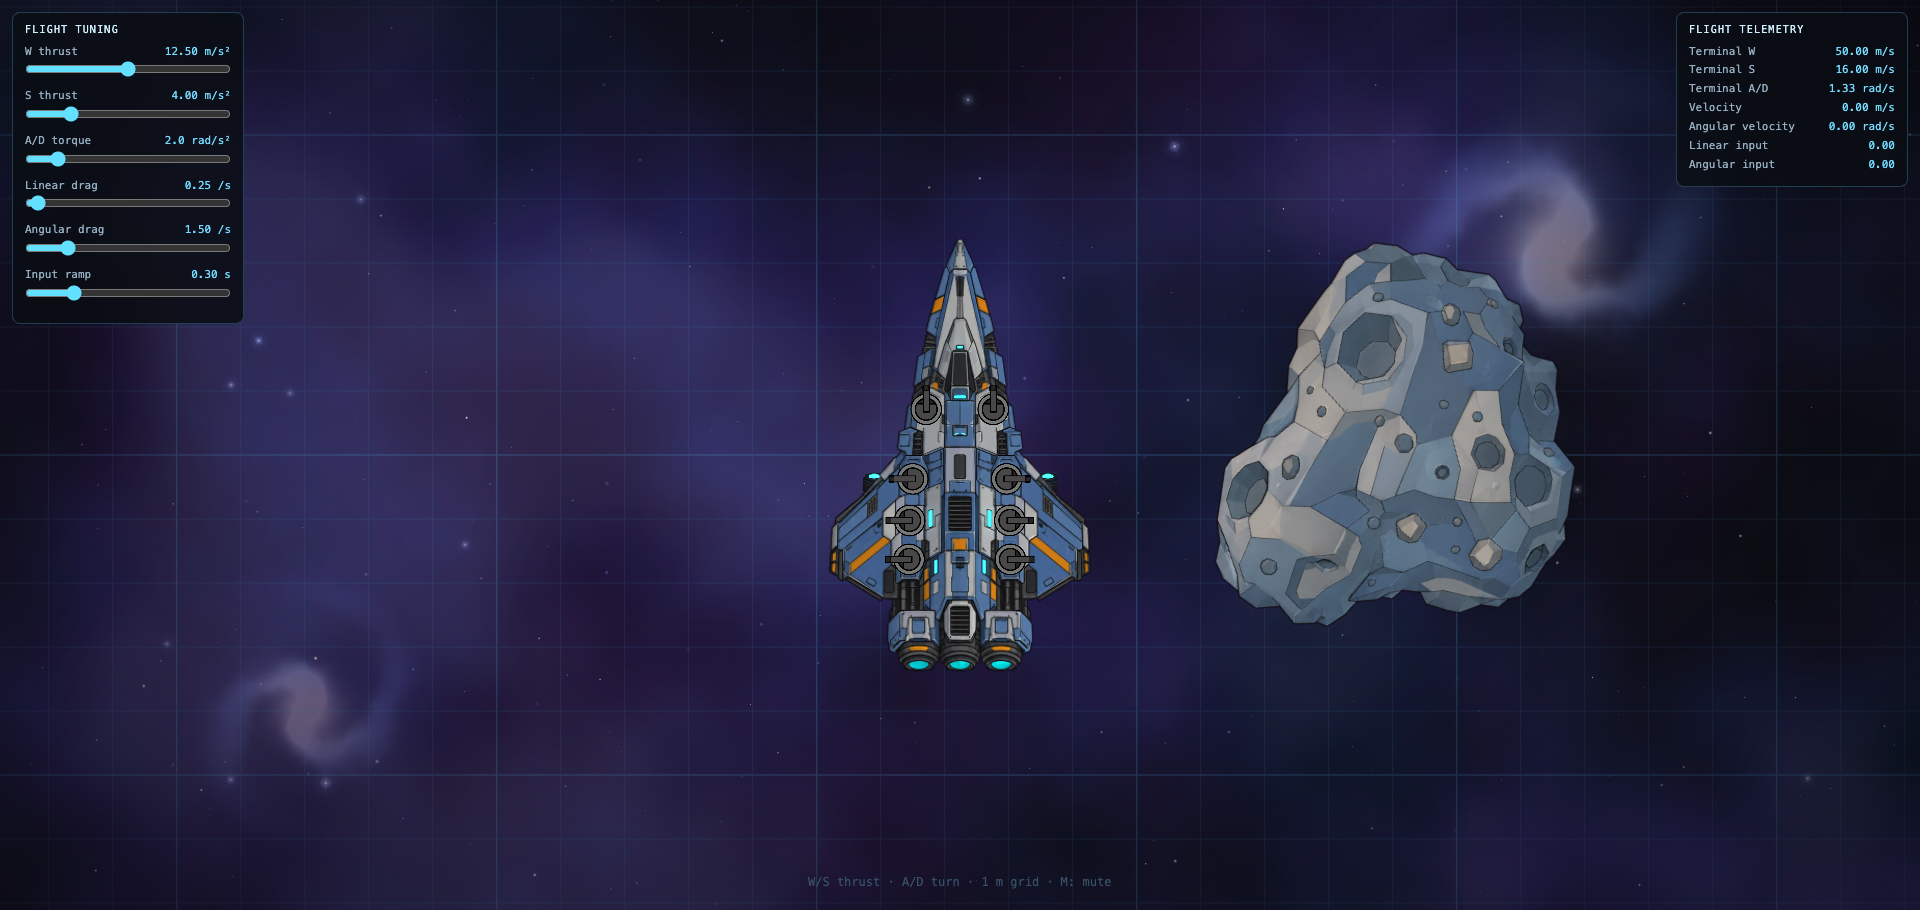
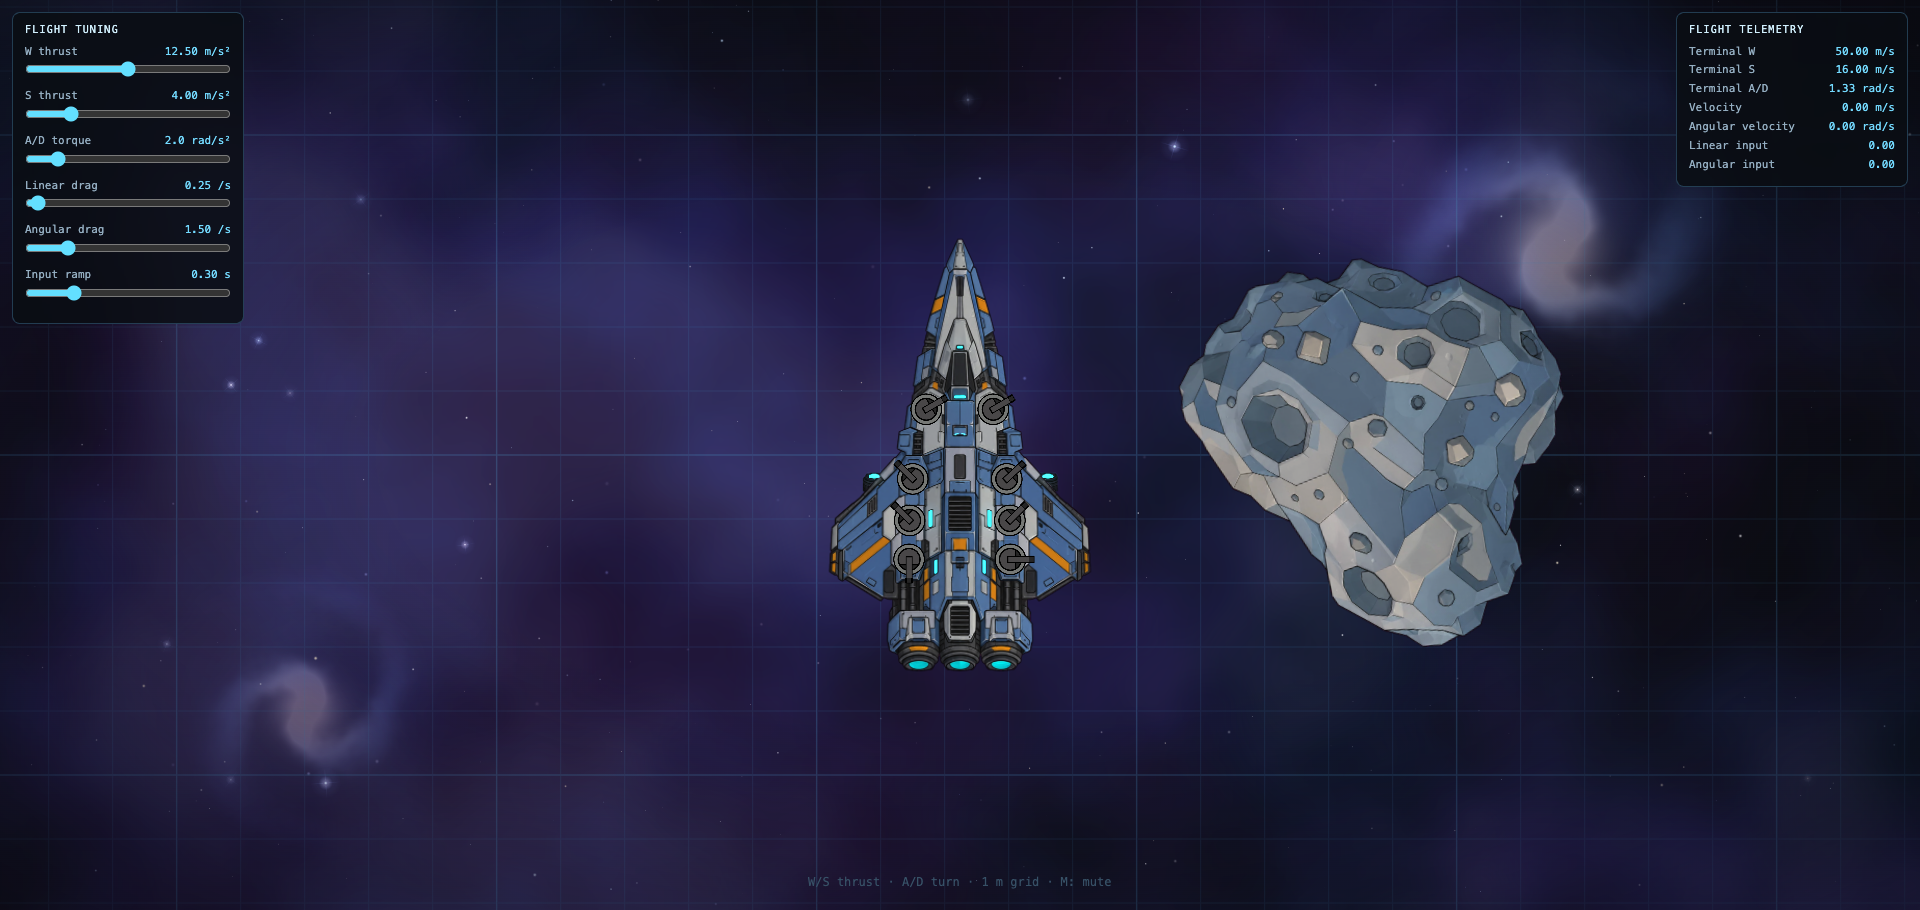
feat: add per-turret aiming cones

Changed region(s): [[0.5938, 0.2462, 0.8438, 0.7077], [0.4688, 0.4308, 0.5312, 0.4615]]

diff --git a/src/app/turrets.ts b/src/app/turrets.ts
@@ -1,5 +1,5 @@
 import { Container, Sprite, Texture } from 'pixi.js';
-import { stepTurretAim, wrapAngle } from './turret-aim';
+import { clampAngleToArc, stepTurretAim, wrapAngle } from './turret-aim';
 import type { TurretAimState } from './turret-aim';
 
 const NATIVE_WIDTH = 41;
@@ -15,6 +15,10 @@ export interface TurretMountConfig {
   scale: number;
   /** Rest angle in radians; 0 points up, ±π/2 point sideways. */
   restAngle: number;
+  /** Centre of the allowed aiming arc. 0 = forward, ±π = rearward. */
+  aimCenter: number;
+  /** Half-width of the allowed aiming arc. */
+  aimHalfAngle: number;
 }
 
 export const TURRET_MOUNT_LABELS = [
@@ -28,15 +32,79 @@ export const TURRET_MOUNT_LABELS = [
   'Rear R3',
 ] as const;
 
+const FRONT_CONE = Math.PI / 3; // ±60° around forward
+const MID_CENTER = Math.PI / 2; // exactly sideways
+const MID_CONE = Math.PI / 4; // covers ±45° around sideways
+const REAR_CENTER = (3 * Math.PI) / 4; // between side and rear
+const REAR_CONE = Math.PI / 4; // covers 90°..180° on each side
+
 export const DEFAULT_TURRET_LAYOUT: readonly TurretMountConfig[] = [
-  { x: -65, y: -88, scale: 1.5, restAngle: 0 }, // front left, up
-  { x: 64, y: -88, scale: 1.5, restAngle: 0 }, // front right, up
-  { x: -91, y: 46, scale: 1.5, restAngle: -Math.PI / 2 }, // rear left 1, side
-  { x: 90, y: 46, scale: 1.5, restAngle: Math.PI / 2 }, // rear right 1, side
-  { x: -97, y: 126, scale: 1.5, restAngle: -Math.PI / 2 }, // rear left 2
-  { x: 96, y: 126, scale: 1.5, restAngle: Math.PI / 2 }, // rear right 2
-  { x: -98, y: 201, scale: 1.5, restAngle: -Math.PI / 2 }, // rear left 3
-  { x: 97, y: 201, scale: 1.5, restAngle: Math.PI / 2 }, // rear right 3
+  // Front pair: forward only.
+  {
+    x: -65,
+    y: -88,
+    scale: 1.5,
+    restAngle: 0,
+    aimCenter: 0,
+    aimHalfAngle: FRONT_CONE,
+  },
+  {
+    x: 64,
+    y: -88,
+    scale: 1.5,
+    restAngle: 0,
+    aimCenter: 0,
+    aimHalfAngle: FRONT_CONE,
+  },
+  // Rear six: side-facing, arc runs from side through the rear.
+  {
+    x: -91,
+    y: 46,
+    scale: 1.5,
+    restAngle: -Math.PI / 2,
+    aimCenter: -MID_CENTER,
+    aimHalfAngle: MID_CONE,
+  },
+  {
+    x: 90,
+    y: 46,
+    scale: 1.5,
+    restAngle: Math.PI / 2,
+    aimCenter: MID_CENTER,
+    aimHalfAngle: MID_CONE,
+  },
+  {
+    x: -97,
+    y: 126,
+    scale: 1.5,
+    restAngle: -Math.PI / 2,
+    aimCenter: -MID_CENTER,
+    aimHalfAngle: MID_CONE,
+  },
+  {
+    x: 96,
+    y: 126,
+    scale: 1.5,
+    restAngle: Math.PI / 2,
+    aimCenter: MID_CENTER,
+    aimHalfAngle: MID_CONE,
+  },
+  {
+    x: -98,
+    y: 201,
+    scale: 1.5,
+    restAngle: -Math.PI / 2,
+    aimCenter: -REAR_CENTER,
+    aimHalfAngle: REAR_CONE,
+  },
+  {
+    x: 97,
+    y: 201,
+    scale: 1.5,
+    restAngle: Math.PI / 2,
+    aimCenter: REAR_CENTER,
+    aimHalfAngle: REAR_CONE,
+  },
 ] as const;
 
 export interface TurretFrame {
@@ -107,9 +175,10 @@ export function createTurrets(
         const localY = config.y * frame.shipScale;
         const mountScreenX = frame.shipScreenX + localX * shipCos - localY * shipSin;
         const mountScreenY = frame.shipScreenY + localX * shipSin + localY * shipCos;
-        const target = wrapAngle(
+        const rawTarget = wrapAngle(
           Math.atan2(frame.mouseX - mountScreenX, -(frame.mouseY - mountScreenY)) - frame.rotation,
         );
+        const target = clampAngleToArc(rawTarget, config.aimCenter, config.aimHalfAngle);
 
         stepTurretAim(aim, target, frame.dt);
         sprite.rotation = aim.angle;

diff --git a/tests/turret-aim.test.ts b/tests/turret-aim.test.ts
@@ -1,5 +1,10 @@
 import { describe, expect, it } from 'vitest';
-import { TURRET_MAX_ANGULAR_SPEED, stepTurretAim, wrapAngle } from '../src/app/turret-aim';
+import {
+  TURRET_MAX_ANGULAR_SPEED,
+  clampAngleToArc,
+  stepTurretAim,
+  wrapAngle,
+} from '../src/app/turret-aim';
 import type { TurretAimState } from '../src/app/turret-aim';
 
 function aimState(): TurretAimState {
@@ -21,6 +26,33 @@ describe('turret aim', () => {
       stepTurretAim(state, Math.PI, dt);
       expect(Math.abs(state.angularVelocity)).toBeLessThanOrEqual(TURRET_MAX_ANGULAR_SPEED + 1e-9);
     }
+  });
+
+  it('clamps front turrets to their forward cone', () => {
+    const half = Math.PI / 3;
+    expect(clampAngleToArc(Math.PI, 0, half)).toBeCloseTo(half, 6);
+    expect(clampAngleToArc(-Math.PI, 0, half)).toBeCloseTo(-half, 6);
+  });
+
+  it('keeps mid turrets centred on the sides', () => {
+    const center = Math.PI / 2;
+    const half = Math.PI / 4;
+
+    expect(clampAngleToArc(0, center, half)).toBeCloseTo(Math.PI / 4, 6);
+    expect(clampAngleToArc(Math.PI, center, half)).toBeCloseTo((3 * Math.PI) / 4, 6);
+    expect(clampAngleToArc(0, -center, half)).toBeCloseTo(-Math.PI / 4, 6);
+    expect(clampAngleToArc(Math.PI, -center, half)).toBeCloseTo(-(3 * Math.PI) / 4, 6);
+  });
+
+  it('lets rear turrets cover the sides and the rear', () => {
+    const center = (3 * Math.PI) / 4;
+    const half = Math.PI / 4;
+
+    // A front target clamps to sideways; a rear target is reachable.
+    expect(clampAngleToArc(0, center, half)).toBeCloseTo(Math.PI / 2, 6);
+    expect(clampAngleToArc(0, -center, half)).toBeCloseTo(-Math.PI / 2, 6);
+    expect(Math.abs(clampAngleToArc(Math.PI, center, half))).toBeCloseTo(Math.PI, 6);
+    expect(Math.abs(clampAngleToArc(Math.PI, -center, half))).toBeCloseTo(Math.PI, 6);
   });
 
   it('converges on a stationary target', () => {

diff --git a/src/app/turret-aim.ts b/src/app/turret-aim.ts
@@ -12,6 +12,17 @@ export function wrapAngle(angle: number): number {
   return Math.atan2(Math.sin(angle), Math.cos(angle));
 }
 
+export function clampAngleToArc(
+  targetAngle: number,
+  centerAngle: number,
+  halfAngle: number,
+): number {
+  const limit = Math.max(0, Math.min(Math.PI, halfAngle));
+  const offset = wrapAngle(targetAngle - centerAngle);
+  const clamped = Math.max(-limit, Math.min(limit, offset));
+  return wrapAngle(centerAngle + clamped);
+}
+
 function clamp(value: number, min: number, max: number): number {
   return Math.max(min, Math.min(max, value));
 }

diff --git a/README.md b/README.md
@@ -100,7 +100,7 @@ docs/                     Architecture decisions, reference art and agent workfl
 - The top-left **FLIGHT TUNING** panel has live sliders for thrust, torque, linear/angular drag
   and input ramp. The top-right **FLIGHT TELEMETRY** panel shows terminal W/S/A-D speeds,
   current velocity, angular velocity, and ramped inputs (all linear units in metres).
-- Eight turrets track the mouse with finite angular speed.
+- Eight turrets track the mouse with finite angular speed and limited cones: front pair forward, middle four sideways, rear pair side-to-rear.
 - **Drag the canvas** to look around (the follow cam eases back to the ship); **scroll / pinch**
   zooms out from the default 1× (`0.02×–1×`, 50× max zoom-out). **Double-click** resets zoom.
 - **Click** for the placeholder sound; **M** mutes/unmutes.

diff --git a/AGENTS.md b/AGENTS.md
@@ -63,7 +63,7 @@ behaviour, also run `pnpm browser:inspect` and check the screenshot.
 - `src/app/engine-layout.ts` — shared main/reverse nozzle geometry (must match the baked texture).
 - `src/app/engine-mix.ts` — pure ramped engine-output mixer, unit-tested in
   `tests/engine-mix.test.ts`.
-- `src/app/turrets.ts` — eight turret mounts with finite-speed mouse tracking.
+- `src/app/turrets.ts` — eight turret mounts with finite-speed mouse tracking and per-mount aiming cones (front forward, middle sideways, rear side-to-rear).
 - `src/app/turret-aim.ts` — pure angular spring-damper aim, unit-tested.
 - `src/app/lit-sprite.ts` — custom normal-map Mesh shader (directional light, emissive/glow).
 - `src/app/background.ts` — layered procedural background (nebulas, galaxies, stars, flares)
